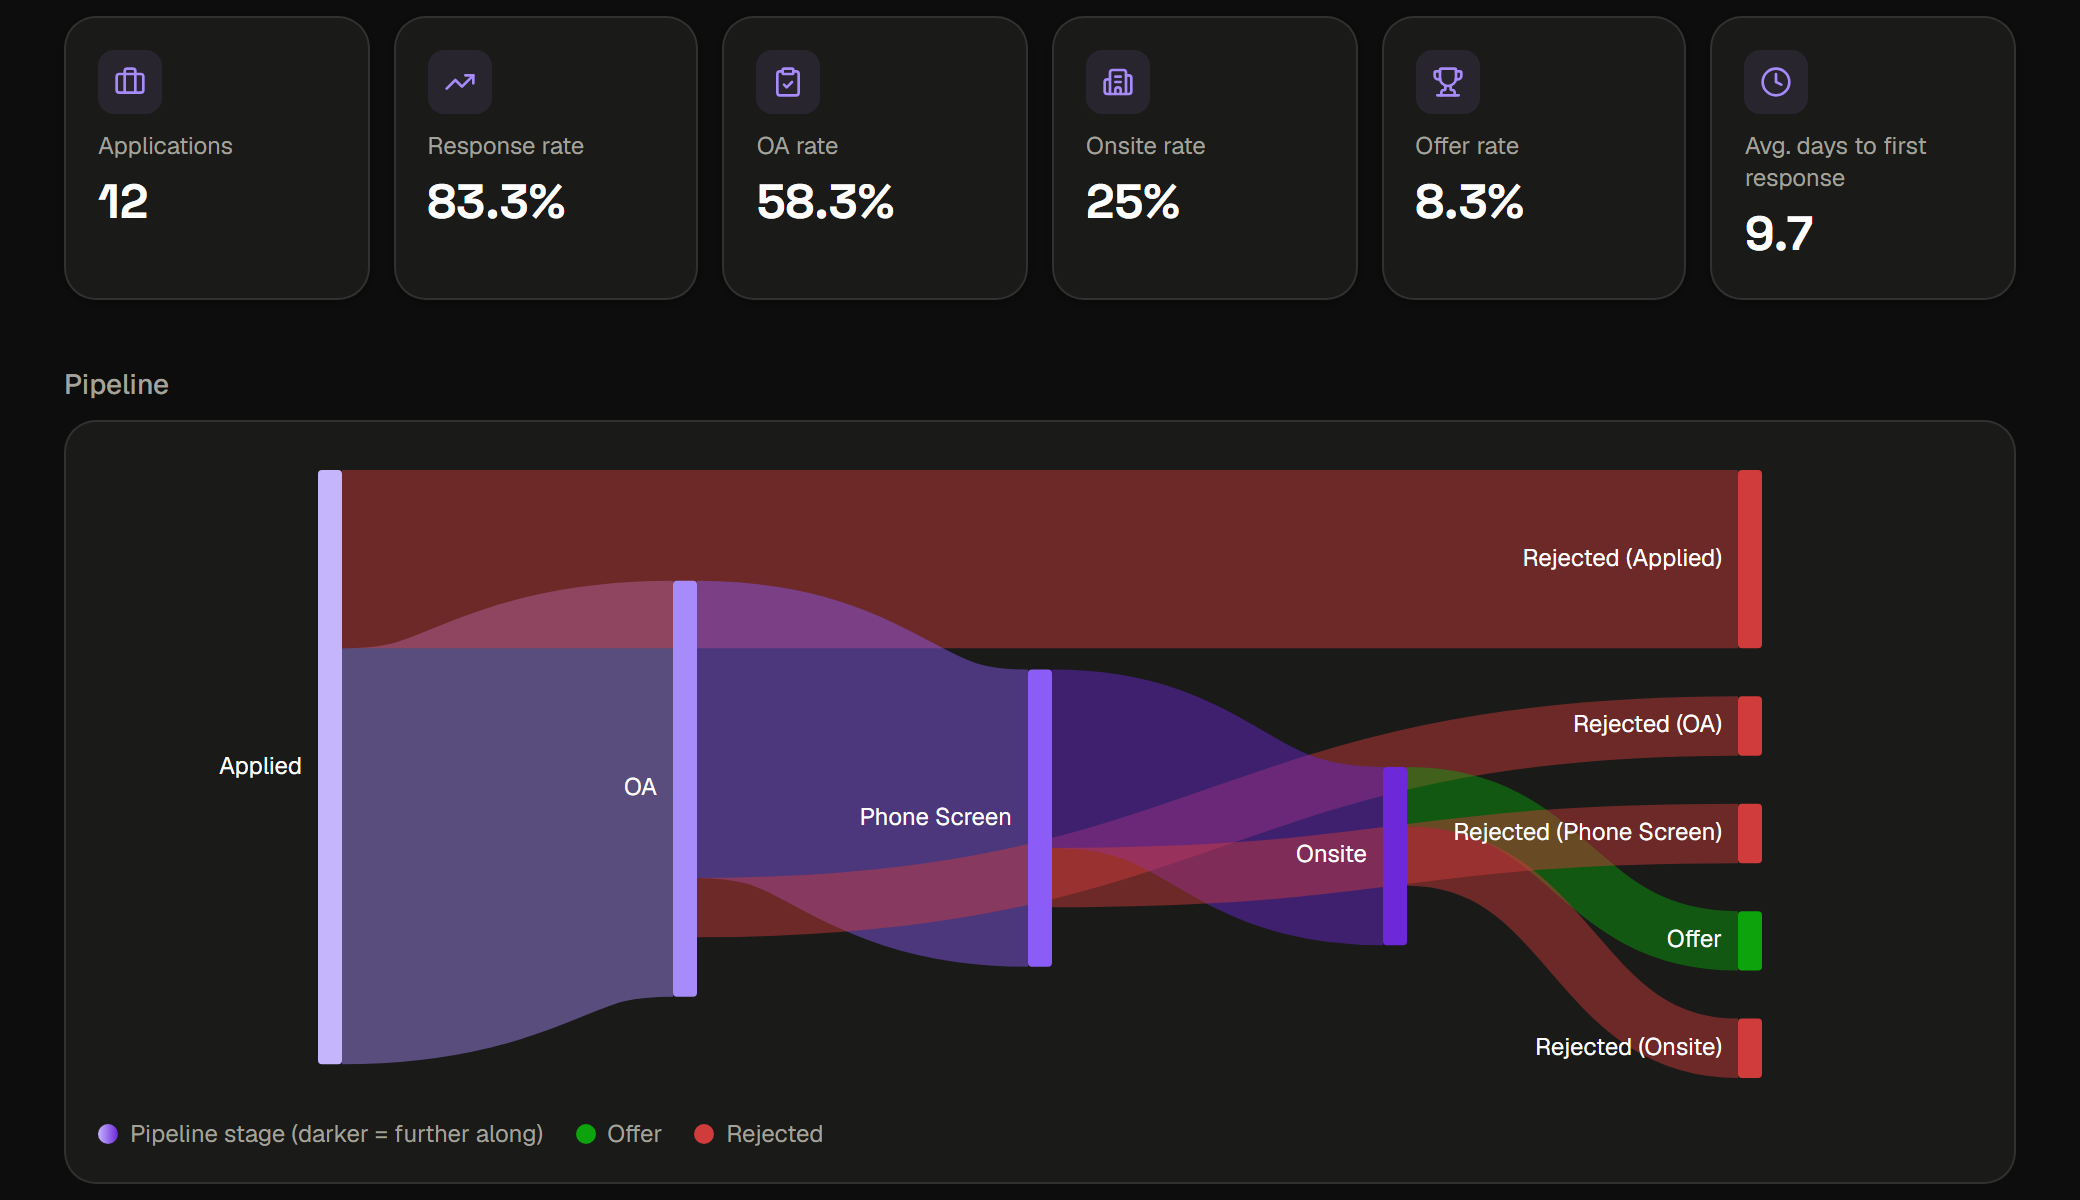
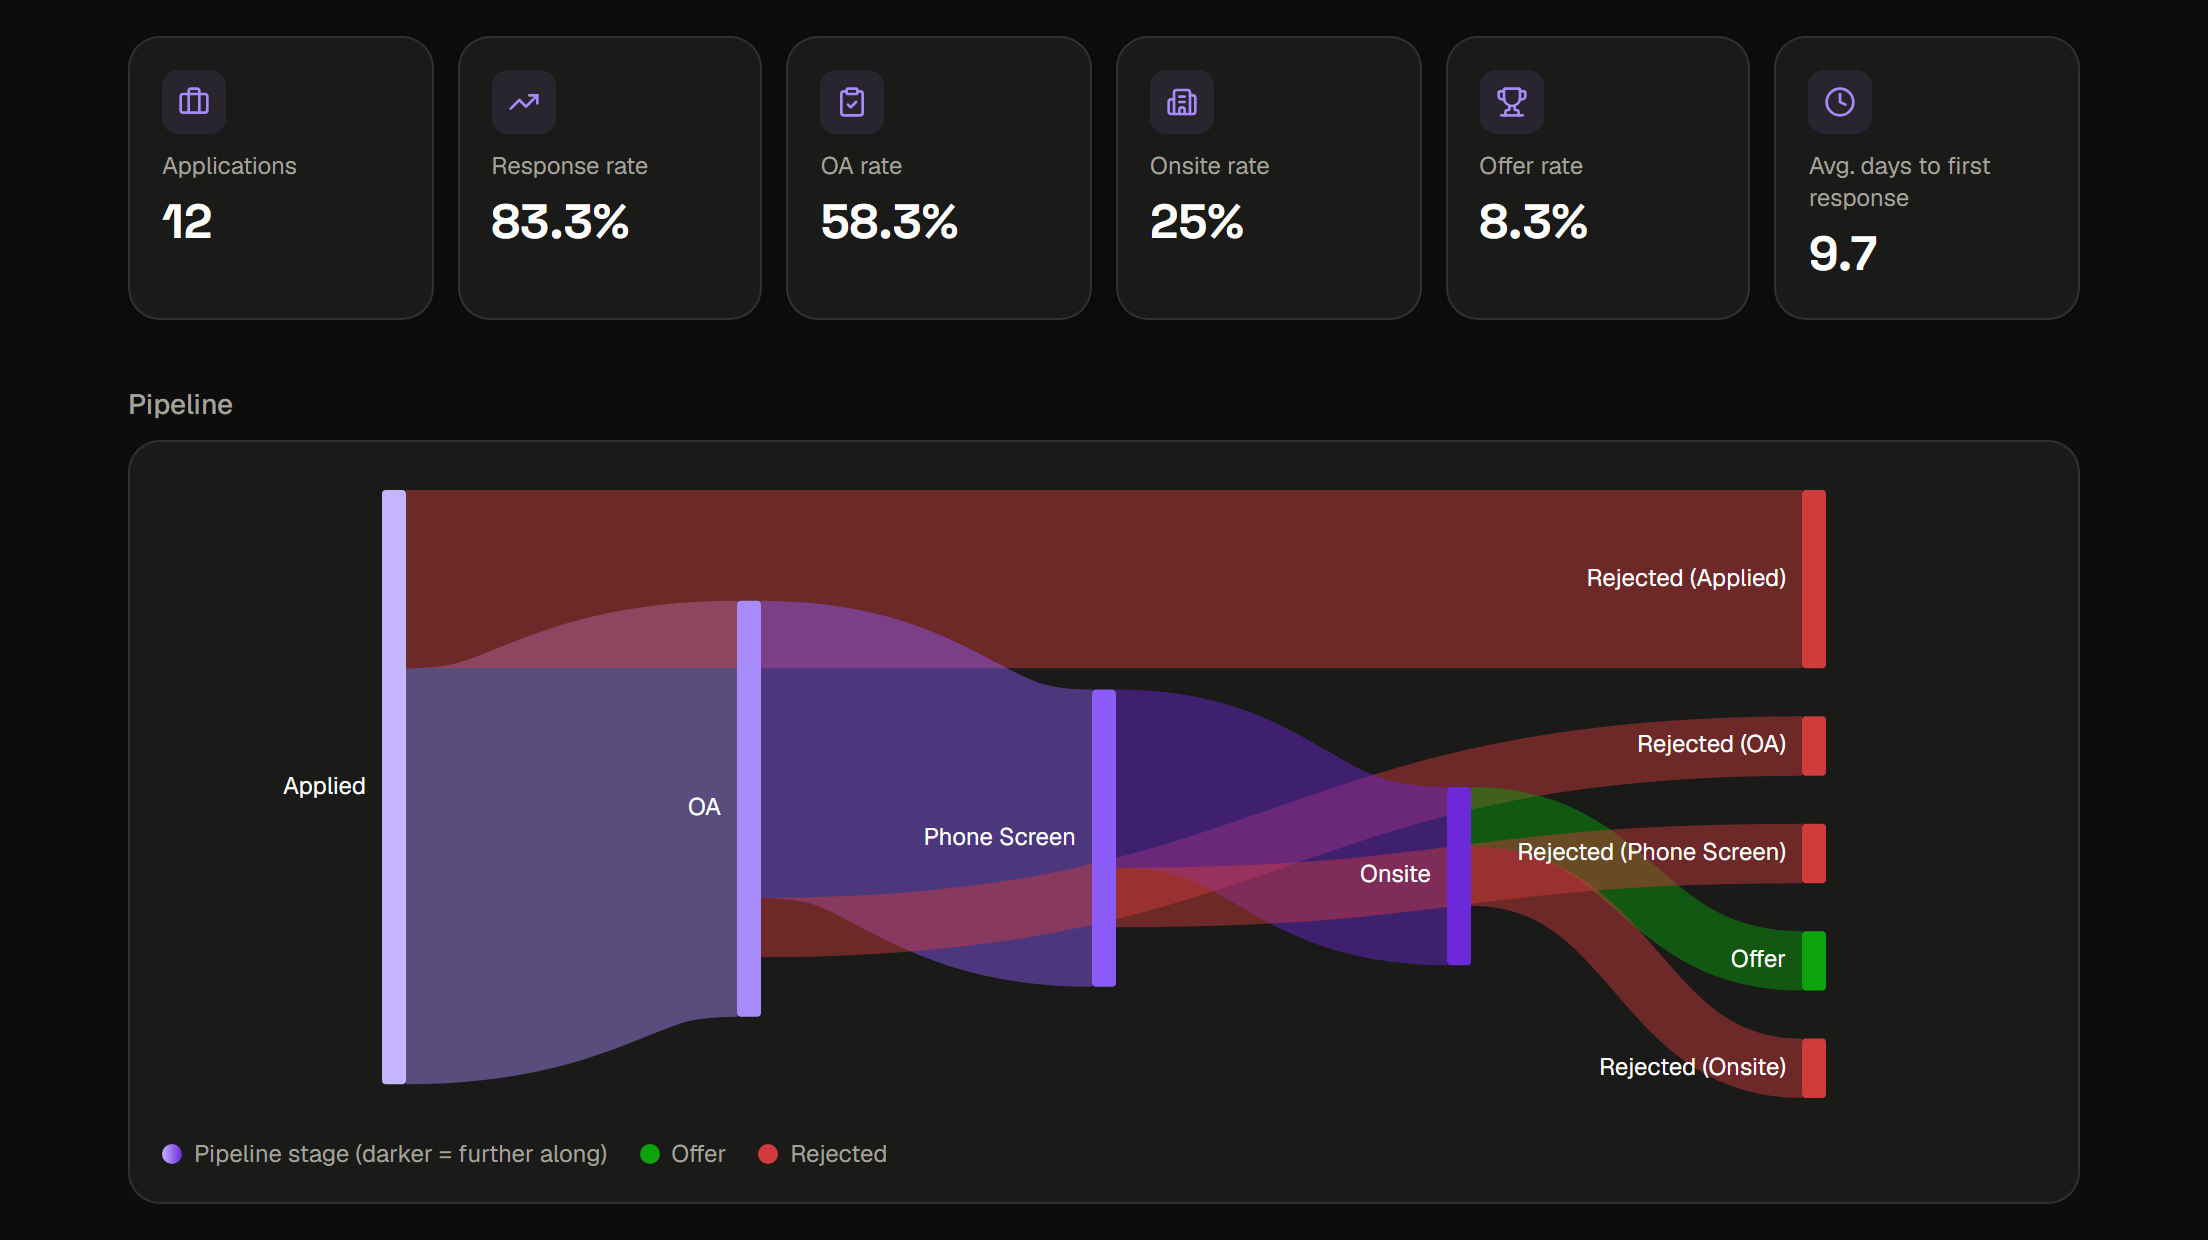
Retake dashboard screenshots with more padding around content

diff --git a/frontend/src/components/ProductPreview.tsx b/frontend/src/components/ProductPreview.tsx
@@ -37,8 +37,8 @@ export function ProductPreview() {
           <Image
             src={src}
             alt="OnTrack dashboard showing application stats and a status pipeline funnel chart"
-            width={1040}
-            height={600}
+            width={1104}
+            height={620}
             className="h-auto w-full"
           />
         </div>
